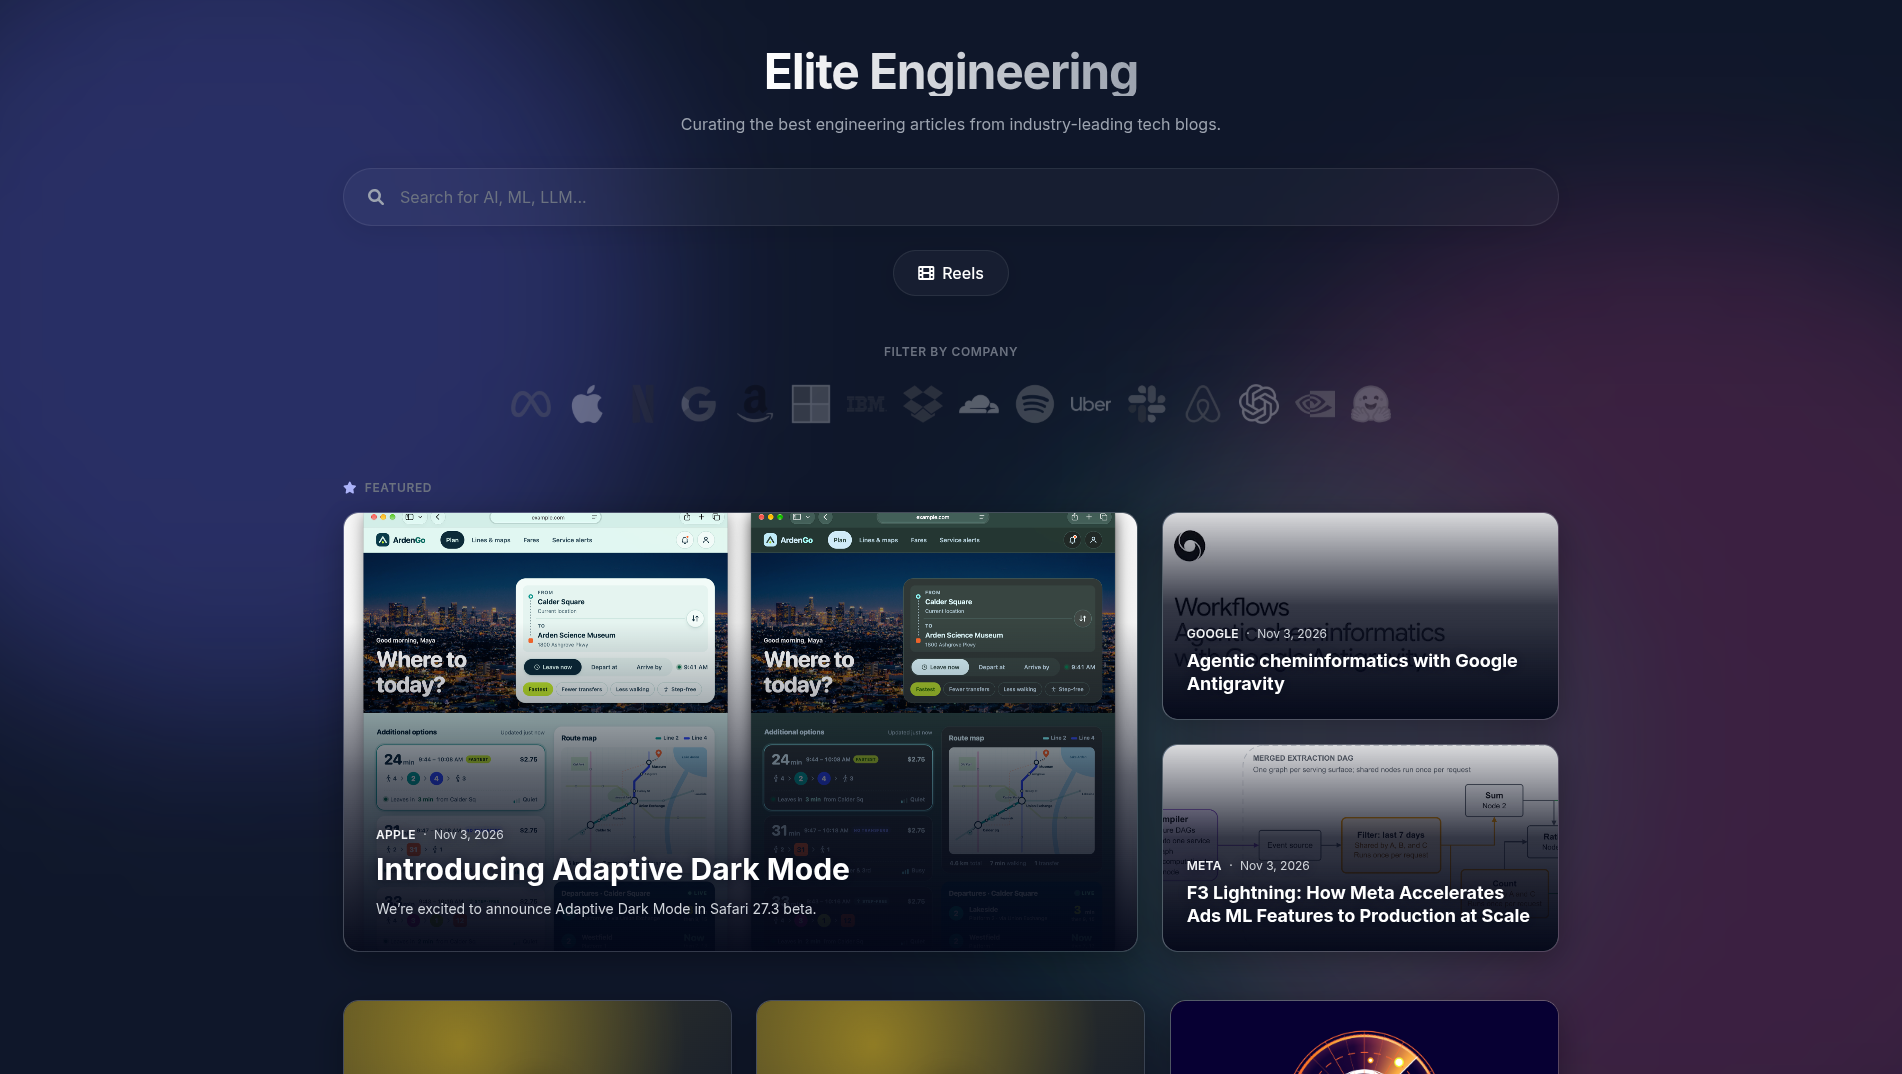
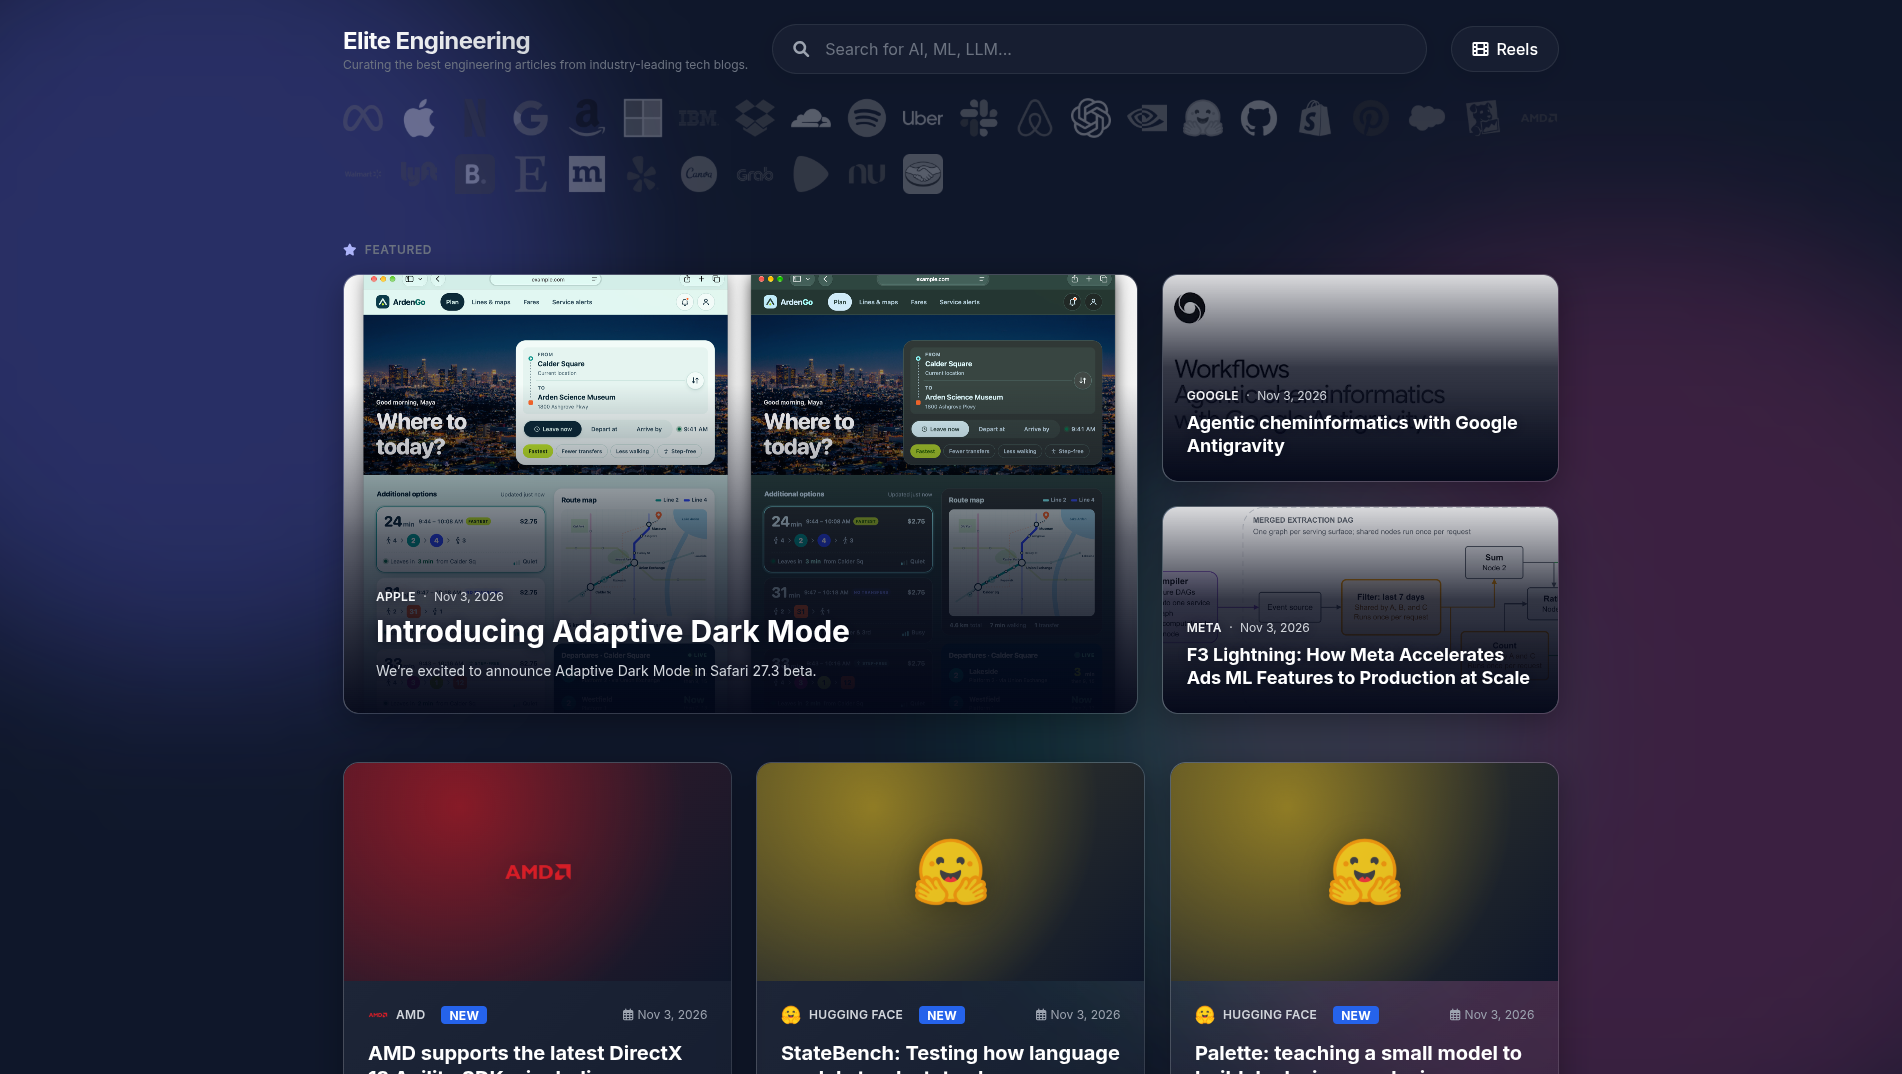
2026-11-03

diff --git a/web/data/companies.js b/web/data/companies.js
@@ -154,6 +154,165 @@ export const companiesList = [
             // The whole blog history (~900 items), community posts included
             new Feed({ url: 'https://huggingface.co/blog/feed.xml', limit: 20 })
         ],
+    }),
+    new Company({
+        id: 'github',
+        name: 'GitHub',
+        color: '#e6edf3',
+        logo: 'github.webp',
+        feeds: [
+            new Feed({ url: 'https://github.blog/engineering/feed/' })
+        ],
+    }),
+    new Company({
+        id: 'shopify',
+        name: 'Shopify',
+        color: '#7ab55c',
+        logo: 'shopify.webp',
+        feeds: [
+            // The whole blog history (~400 items)
+            new Feed({ url: 'https://shopify.engineering/blog.atom', limit: 20 })
+        ],
+    }),
+    new Company({
+        id: 'pinterest',
+        name: 'Pinterest',
+        color: '#bd081c',
+        logo: 'pinterest.webp',
+        feeds: [
+            new Feed({ url: 'https://medium.com/feed/pinterest-engineering' })
+        ],
+    }),
+    new Company({
+        id: 'salesforce',
+        name: 'Salesforce',
+        color: '#00a1e0',
+        logo: 'salesforce.webp',
+        feeds: [
+            new Feed({ url: 'https://engineering.salesforce.com/feed/' })
+        ],
+    }),
+    new Company({
+        id: 'datadog',
+        name: 'Datadog',
+        color: '#8a5cd0',
+        logo: 'datadog.webp',
+        feeds: [
+            new Feed({ url: 'https://www.datadoghq.com/blog/engineering/index.xml', limit: 20 })
+        ],
+    }),
+    new Company({
+        id: 'amd',
+        name: 'AMD',
+        color: '#ed1c24',
+        logo: 'amd.webp',
+        feeds: [
+            // GPUOpen: AMD's developer blog (graphics, ML, performance). Its images only load on gpuopen.com
+            new Feed({ url: 'https://gpuopen.com/feed/', images: false })
+        ],
+    }),
+    new Company({
+        id: 'walmart',
+        name: 'Walmart',
+        color: '#0071ce',
+        logo: 'walmart.webp',
+        feeds: [
+            new Feed({ url: 'https://medium.com/feed/walmartglobaltech' })
+        ],
+    }),
+    new Company({
+        id: 'lyft',
+        name: 'Lyft',
+        color: '#ff00bf',
+        logo: 'lyft.webp',
+        feeds: [
+            new Feed({ url: 'https://eng.lyft.com/feed' })
+        ],
+    }),
+    new Company({
+        id: 'booking',
+        name: 'Booking.com',
+        color: '#2b5ba8',
+        logo: 'booking.webp',
+        feeds: [
+            new Feed({ url: 'https://medium.com/feed/booking-com-development' })
+        ],
+    }),
+    new Company({
+        id: 'etsy',
+        name: 'Etsy',
+        color: '#f16521',
+        logo: 'etsy.webp',
+        feeds: [
+            new Feed({ url: 'https://www.etsy.com/codeascraft/rss' })
+        ],
+    }),
+    new Company({
+        id: 'mozilla',
+        name: 'Mozilla',
+        color: '#e5e7eb',
+        logo: 'mozilla.webp',
+        feeds: [
+            new Feed({ url: 'https://hacks.mozilla.org/feed/' })
+        ],
+    }),
+    new Company({
+        id: 'yelp',
+        name: 'Yelp',
+        color: '#ff1a1a',
+        logo: 'yelp.webp',
+        feeds: [
+            new Feed({ url: 'https://engineeringblog.yelp.com/feed.xml' })
+        ],
+    }),
+    new Company({
+        id: 'canva',
+        name: 'Canva',
+        color: '#00c4cc',
+        logo: 'canva.webp',
+        feeds: [
+            new Feed({ url: 'https://www.canva.dev/blog/engineering/feed.xml' })
+        ],
+    }),
+    new Company({
+        id: 'grab',
+        name: 'Grab',
+        color: '#00b14f',
+        logo: 'grab.webp',
+        feeds: [
+            new Feed({ url: 'https://engineering.grab.com/feed.xml' })
+        ],
+    }),
+    new Company({
+        id: 'zalando',
+        name: 'Zalando',
+        color: '#ff6900',
+        logo: 'zalando.webp',
+        feeds: [
+            new Feed({ url: 'https://engineering.zalando.com/atom.xml', limit: 20 })
+        ],
+    }),
+    new Company({
+        id: 'nubank',
+        name: 'Nubank',
+        color: '#a14ce0',
+        logo: 'nubank.webp',
+        feeds: [
+            // The blog also has careers and culture posts
+            new Feed({
+                url: 'https://building.nubank.com/feed/',
+                categories: ['Engineering', 'Software Engineering', 'Data & Analytics', 'Data science & Machine Learning', 'AI Research']
+            })
+        ],
+    }),
+    new Company({
+        id: 'mercadolivre',
+        name: 'Mercado Livre',
+        color: '#ffe600',
+        logo: 'mercadolivre.webp',
+        feeds: [
+            new Feed({ url: 'https://medium.com/feed/mercadolibre-tech' })
+        ],
     })
 ];
 

diff --git a/web/index.html b/web/index.html
@@ -49,20 +49,22 @@
 <div class="bg-shape shape-2"></div>
 <div class="bg-shape shape-3"></div>
 
-<div class="max-w-7xl mx-auto px-4 sm:px-6 lg:px-8 py-12">
+<div class="max-w-7xl mx-auto px-4 sm:px-6 lg:px-8 py-6">
 
-    <!-- Header & Search -->
-    <header class="flex flex-col items-center justify-center mb-12 text-center">
-        <h1 class="text-4xl md:text-5xl font-bold tracking-tight mb-4 text-transparent bg-clip-text bg-gradient-to-r from-white to-gray-400">
-            Elite Engineering
-        </h1>
-        <p class="text-gray-400 mb-8 max-w-2xl text-sm md:text-base">
-            Curating the best engineering articles from industry-leading tech blogs.
-        </p>
+    <!-- Header: name, search and Reels in one row (search wraps below on phones) -->
+    <header class="flex flex-wrap items-center gap-x-6 gap-y-3 mb-4">
+        <div class="order-1 shrink-0">
+            <h1 class="text-xl md:text-2xl font-bold tracking-tight text-transparent bg-clip-text bg-gradient-to-r from-white to-gray-400">
+                Elite Engineering
+            </h1>
+            <p class="hidden lg:block text-gray-500 text-xs">
+                Curating the best engineering articles from industry-leading tech blogs.
+            </p>
+        </div>
 
-        <div class="relative w-full  glass rounded-full p-2 flex items-center">
+        <div class="order-3 md:order-2 relative w-full md:w-auto md:flex-1 glass rounded-full p-1 flex items-center">
             <i class="fas fa-search text-gray-400 ml-4"></i>
-            <input type="text" id="searchInput" placeholder="Search for AI, ML, LLM..."
+            <input type="text" id="searchInput" placeholder="Search for AI, ML, LLM..." aria-label="Search articles"
                    class="w-full bg-transparent border-none text-white px-4 py-2 focus:outline-none placeholder-gray-500 rounded-full">
             <button id="clearSearchBtn" class="hidden text-gray-400 hover:text-white mr-4 transition-colors">
                 <i class="fas fa-times"></i>
@@ -70,15 +72,15 @@
         </div>
 
         <button id="reelsBtn" disabled
-                class="mt-6 inline-flex items-center gap-2 px-6 py-2.5 rounded-full glass text-white font-medium hover:bg-white/10 transition-colors disabled:opacity-40 disabled:cursor-not-allowed">
+                class="order-2 md:order-3 ml-auto md:ml-0 inline-flex items-center gap-2 px-5 py-2.5 rounded-full glass text-white font-medium hover:bg-white/10 transition-colors disabled:opacity-40 disabled:cursor-not-allowed">
             <i class="fas fa-film"></i> Reels
         </button>
     </header>
 
     <!-- Company Filters -->
-    <div class="mb-12">
-        <h2 class="text-xs uppercase tracking-wider text-gray-500 font-semibold mb-4 text-center">Filter by company</h2>
-        <div id="filterContainer" class="filter-scroll flex flex-nowrap overflow-x-auto gap-4 -mx-4 px-4 py-2 md:mx-0 md:px-0 md:flex-wrap md:justify-center md:overflow-visible">
+    <div class="mb-10">
+        <h2 class="sr-only">Filter by company</h2>
+        <div id="filterContainer" class="filter-scroll flex flex-nowrap overflow-x-auto gap-4 -mx-4 px-4 py-2 md:mx-0 md:px-0 md:flex-wrap md:overflow-visible">
             <!-- Filters injected via JS -->
         </div>
     </div>
@@ -134,7 +136,8 @@
         <p>
             Elite Engineering brings together the newest posts from the official engineering blogs of
             Meta, Apple, Netflix, Google, Amazon, Microsoft, IBM, Dropbox, Cloudflare, Spotify, Uber,
-            Slack, Airbnb, OpenAI, NVIDIA and Hugging Face. Search across AI, machine learning,
+            Slack, Airbnb, OpenAI, NVIDIA, Hugging Face, GitHub, Shopify, Pinterest, Salesforce, Datadog,
+            AMD, Walmart, Lyft, Booking.com, Etsy, Mozilla, Yelp, Canva, Grab, Zalando, Nubank and Mercado Livre. Search across AI, machine learning,
             infrastructure, security and performance articles, or browse them one at a time in Reels.
         </p>
         <p class="mt-4">

diff --git a/web/src/core/Feed.js b/web/src/core/Feed.js
@@ -1,5 +1,5 @@
 export class Feed {
-    constructor({author, description, image, link, title, url, articles, categories, limit}) {
+    constructor({author, description, image, link, title, url, articles, categories, limit, images = true}) {
         this.author = author;
         this.description = description;
         this.image = image;
@@ -9,6 +9,8 @@ export class Feed {
         // Optional: keep only these categories / at most this many items (for mixed feeds)
         this.categories = categories;
         this.limit = limit;
+        // false when the blog blocks its images on other sites, so cards use the logo instead
+        this.images = images;
         this.articles = articles || [];
     }
 }

diff --git a/test/web/loadArticles.test.js b/test/web/loadArticles.test.js
@@ -117,3 +117,12 @@ test('LoadArticles waits for every feed when waitMs is Infinity (a shared Reels 
 
     assert.deepEqual((await loading).map(a => a.title), ['slow', 'b', 'a']);
 });
+
+test('LoadArticles drops the images of a feed whose blog blocks them on other sites', async () => {
+    const feeds = { async fetch() { return { feed: {}, items: [{ ...item('a', '2026-01-01'), image: 'https://a/cover.jpg' }] }; } };
+    const blocked = [new Company({ id: 'a', name: 'A', feeds: [new Feed({ url: 'https://a/feed', images: false })] })];
+
+    const [article] = await new LoadArticles(feeds).execute(blocked);
+
+    assert.equal(article.image, '');
+});

diff --git a/web/src/core/LoadArticles.js b/web/src/core/LoadArticles.js
@@ -52,7 +52,7 @@ export class LoadArticles {
                 timestamp: new Date(item.pubDate).getTime(),
                 categories: item.categories,
                 excerpt: item.excerpt,
-                image: item.image,
+                image: feed.images ? item.image : '',
                 link: item.link,
                 pubDate: item.pubDate,
                 title: item.title,

diff --git a/readme.md b/readme.md
@@ -1,7 +1,7 @@
 ![img.png](img.png)
 > Curating the best engineering articles from industry-leading tech blogs.
 
-**Elite Engineering** aggregates the official RSS/Atom feeds of top tech companies (Meta, Apple, Cloudflare, Dropbox, GitHub…) into one fast, responsive page.
+**Elite Engineering** aggregates the official RSS/Atom feeds of 33 top tech companies (Meta, Apple, Google, Netflix, GitHub, Shopify, Datadog, Nubank…) into one fast, responsive page.
 
 - [Quick start](#quick-start) · [Commands](#commands) · [How it works](#how-it-works) · [Project structure](#project-structure) · [Configuration](#configuration)
 - [Common tasks](#common-tasks) · [Tests](#tests) · [Deployment](#deployment) · [Reference](#reference) ([sponsored slots](#sponsored-slots)) · [Known issues](#known-issues)
@@ -32,7 +32,7 @@ Open **http://localhost:8788**.
 ![generalArchitecture.svg](docs/diag/generalArchitecture.svg)
 
 - **`web/`**: front end in plain HTML, CSS and ES modules, with no build step. It parses the feeds in the browser and caches the articles in `localStorage` for **12 h**. It waits for the feeds for at most **3 s** and then shows what arrived: a slower feed is left out of that visit, keeps loading in the background, and shows up on the next one from the cache. The page never reorders itself after it shows. A shared Reels link (`?reel=`) waits for every feed instead, since the article may be in a slow one. It gives up on a feed the API doesn't answer within **10 s**.
-- **`api/`**: fetches the feeds for the browser, because blogs block cross-origin requests. It only serves feeds listed in `web/data/companies.js`, caches them for **30 min**, accepts only the site's origins, and allows **60 requests/min per IP**. A blog that doesn't answer within **8 s** gets a `502`, so it can't hold the request. It runs on Cloudflare Workers in production and on Node locally.
+- **`api/`**: fetches the feeds for the browser, because blogs block cross-origin requests. It only serves feeds listed in `web/data/companies.js`, caches them for **30 min**, accepts only the site's origins, and allows **120 requests/min per IP** (an uncached page load makes one per feed). A blog that doesn't answer within **8 s** gets a `502`, so it can't hold the request. It runs on Cloudflare Workers in production and on Node locally.
 - **Images** are not proxied: the browser downloads them straight from each blog ([details](#article-images)).
 
 ## Project structure
@@ -94,6 +94,8 @@ Secrets (a database or login key, later on) never go in the repository: use `.en
 ```js
 new Feed({ url: 'https://openai.com/news/rss.xml', categories: ['Engineering', 'Research', 'Security'], limit: 30 })
 ```
+
+If the blog blocks its images on other sites (the browser logs `ERR_BLOCKED_BY_RESPONSE`), add `images: false` so its cards use the logo instead (AMD's GPUOpen does this). Logos are 256×256 `.webp` with a transparent background; [Simple Icons](https://simpleicons.org) has most brands as SVG, in their brand color. Each page load without cache makes one API request per feed, so keep `RATE_LIMIT_REQUESTS` well above the number of feeds.
 
 **Featured section:** above the grid, the 3 newest articles with a cover image, at most one per company (`web/src/core/pickFeatured.js`). It shows only on the home view (no company filter, no search), and those articles are left out of the grid below; Reels still goes through every article. Change `count` there to show more or fewer.
 
@@ -182,7 +184,7 @@ Design notes and decisions: [`docs/superpowers/specs/2026-10-25-hexagonal-archit
    3. `<enclosure type="image/…">` or Atom `<link rel="enclosure">` (Cloudflare)
    4. the first `<img>` in the post HTML (Meta, Netflix, AWS, NVIDIA, Slack…), skipping `data:` URLs and images smaller than 50px
 
-   The URL is made absolute and upgraded to `https`. Some feeds have no images (OpenAI, Hugging Face, Spotify, Apple ML, Google Developers).
+   The URL is made absolute and upgraded to `https`. Some feeds have no images (OpenAI, Hugging Face, Spotify, Apple ML, Google Developers, Shopify, Yelp, Datadog), and AMD's are dropped on purpose (`images: false`, see [Common tasks](#common-tasks)).
 2. **Downloading the file** is done by the browser, straight from the blog, without the API. In the grid it uses `loading="lazy"`; in Reels it loads right away and preloads the next card. Caching follows each blog's `Cache-Control`. Files are not stored in `localStorage`, whose ~5 MB limit a few images would exceed.
 3. **Fallback:** while loading, or when there is no image or it fails (404, hotlink block, narrower than 120px), the card shows the company logo on its brand color.
 

diff --git a/agents.md b/agents.md
@@ -16,7 +16,7 @@ How to work on this repository. What the project does and how it's built is in [
 - **Cloudflare is a plugin.** Cloudflare-specific code lives only in `api/platforms/cloudflare/`; the rest must work without it.
 - **No build step.** Plain ES modules in the browser and on Node 22+. Don't add bundlers, TypeScript or frameworks; ports are JSDoc `@typedef`s.
 - **Config:** API settings are environment variables, validated in `api/src/config.js` and listed in `.env.example` and `wrangler.jsonc` `vars` (keep the three in sync). Secrets go in `.env` or `wrangler secret`, never in the repository. `web/` is public: no secrets there.
-- **Feeds:** a feed must be listed in `web/data/companies.js`, which is also the API's allowlist. Adding a company also means a logo in `web/static/` (`.webp`) and its name in the `#about` footer of `web/index.html` (`test/web/seo.test.js` checks it).
+- **Feeds:** a feed must be listed in `web/data/companies.js`, which is also the API's allowlist. Adding a company also means a logo in `web/static/` (256×256 `.webp`) and its name in the `#about` footer of `web/index.html` (`test/web/seo.test.js` checks it). Check the feed first: it must be engineering content (not product news), recent, and parse in the browser. More feeds means more API requests per uncached page load, so keep `RATE_LIMIT_REQUESTS` well above the feed count.
 
 ## Tests
 
